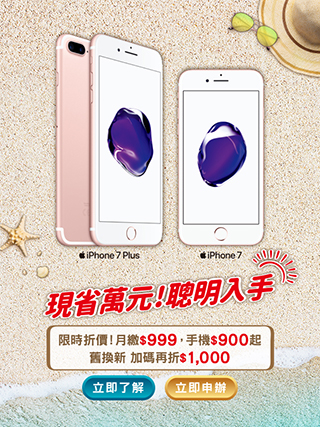
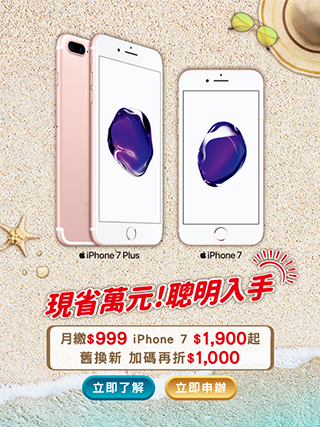
iPhone 20190419
更換banner
價格調整
移除banner
文案調整
日期調整
保護文字調整

Changed region(s): [[0.1875, 0.7611, 0.8125, 0.8525]]

diff --git a/demo/iPhone/new.html b/demo/iPhone/new.html
@@ -36,11 +36,13 @@
 		<map name="map_01">
 			<area target="_blank" alt="" title="" onclick="javascript:ga('send', 'event', 'iphoneXS', 'action', 'Buy_from_new');" href="https://iphone-eshop.cdn.hinet.net/Next.html?_ga=2.130746831.1781421612.1537203179-28648395.1509459132" coords="531,341,652,388" shape="rect">
 		</map> -->
+		<!-- 20190418
 		<a href="https://www.cht.com.tw/home/consumer/mobservice/device/phones#!_keyword%3AiPhone%207%26_orderby%3A%26_page%3A1"><img class="desktop-only" src="assets/images/banner_new.jpg" /></a>
 		<a href="https://www.cht.com.tw/home/consumer/mobservice/device/phones#!_keyword%3AiPhone%207%26_orderby%3A%26_page%3A1"><img style="width:100%" class="mobile-only" src="assets/images/banner_new_m.jpg" /></a>
+	-->
 		<!-- <h1 style="line-height:150%;font-size:180%;text-shadow:3px 3px #ddd;color:#ff0000">舊換新 iPhone XS Max / XR最高現省$28,000</h1> -->
-		<h1 style="color:#ff0000;font-size:1.35em;line-height:1.5em;">【超值優惠】<div class="mobile-only"><br></div>月繳$999，iPhone 7 <div class="mobile-only"><br></div>購機價$900，現省萬元，聰明入手！</h1>
-		<h1 style="color:#ff0000;font-size:1.35em;line-height:1.5em;">【限時折價】<div class="mobile-only"><br></div>指定機型限時折$2,000　<div class="mobile-only"><br></div>搭配舊換新購機加碼再折$1,000</h1>
+		<h1 style="color:#ff0000;font-size:1.35em;line-height:1.5em;">【超值優惠】<div class="mobile-only"><br></div>月繳$999，iPhone 7 <div class="mobile-only"><br></div>購機價$1,900起聰明入手！</h1>
+		<h1 style="color:#ff0000;font-size:1.35em;line-height:1.5em;">【限時折價】<div class="mobile-only"><br></div>指定機型最高限時折$2,000<div class="mobile-only"><br></div>搭配舊換新購機加碼再折$1,000</h1>
 		<h1 style="color:#ff0000;font-size:1.35em;line-height:1.5em;">【限時優惠】<div class="mobile-only"><br></div>買指定機型獨享<img src="assets/images/wordgym_logo.png" /><div class="mobile-only"><br></div>免費體驗1個月</h1>
 		<!-- <h1 style="color:#ff0000;font-size:1.5em;line-height:1.5em;"> 【行動VIP】 購機最高再折$5,000</h1> -->
 		<!-- <h1 style="color:#000;font-size:1.5em;line-height:1.5em;">指定銀行刷卡購機享24期0利率 滿額登錄再送刷卡金！
@@ -68,7 +70,7 @@
 			<table>
 				<tr>
 					<td>活動期間：</td>
-					<td>自108/04/25起至108/06/30</td>
+					<td>自108/05/01起至108/05/30</td>
 				</tr>
 				<tr>
 					<td>申辦地點：</td>
@@ -240,18 +242,15 @@
 					<td class="newer">32GB</td>
 					<td><span style="text-decoration:line-through;color:#000;">6,900</span><div class="e_pc"></div><br class="e_mobile">
 					  <span>5,900</span></td>
-					<td><span style="text-decoration:line-through;color:#000;">1,900</span><div class="e_pc"></div><br class="e_mobile">
-					  <span>900</span></td>
+					<td>1,900</td>
 					<td>0</td>
 				</tr>
 				<tr>
 					<td>128GB</td>
 					<td><span style="text-decoration:line-through;color:#000;">10,900</span><div class="e_pc"></div><br class="e_mobile">
 					  <span>9,900</span></td>
-					<td><span style="text-decoration:line-through;color:#000;">5,900</span><div class="e_pc"></div><br class="e_mobile">
-				    <span>4,900</span></td>
-					<td><span style="text-decoration:line-through;color:#000;">1,900</span><div class="e_pc"></div><br class="e_mobile">
-				    <span>900</span></td>
+					<td>5,900</td>
+					<td>1,900</td>
 				</tr>
 				<tr>
 					<td rowspan="2">iPhone 7 Plus
@@ -259,19 +258,16 @@
 					</td>
 					<td class="newer">32GB</td>
 					<td><span style="text-decoration:line-through;color:#000;">9,400</span><div class="e_pc"></div><br class="e_mobile">
-				    <span>8,400</span></td>
-					<td><span style="text-decoration:line-through;color:#000;">3,900</span><div class="e_pc"></div><br class="e_mobile">
-					  <span>2,900</span></td>
+				    <span>8,400</td>
+					<td>3,900</td>
 					<td>0</td>
 				</tr>
 				<tr>
 					<td>128GB</td>
 					<td><span style="text-decoration:line-through;color:#000;">13,400</span><div class="e_pc"></div><br class="e_mobile">
 				    <span>12,400</span></td>
-					<td><span style="text-decoration:line-through;color:#000;">7,900</span><div class="e_pc"></div><br class="e_mobile">
-				    <span>6,900</span></td>
-					<td><span style="text-decoration:line-through;color:#000;">1,900</span><div class="e_pc"></div><br class="e_mobile">
-					 <span> 900</span></td>
+					<td>7,900</td>
+					<td>1,900</td>
 				</tr>
 			</tbody>
 		</table>
@@ -437,38 +433,32 @@
 		<td class="newer">32GB</td>
 		<td><span style="text-decoration:line-through;color:#000;">7,900</span><div class="e_pc"></div><br class="e_mobile">
 	    <span>6,900</span></td>
-		<td><span style="text-decoration:line-through;color:#000;">3,900</span><div class="e_pc"></div><br class="e_mobile">
-		  <span>2,900</span></td>
+		<td>3,900</td>
 		<td>0</td>
 	</tr>
 	<tr>
 		<td>128GB</td>
 		<td><span style="text-decoration:line-through;color:#000;">11,900</span><div class="e_pc"></div><br class="e_mobile">
 		  <span>10,900</span></td>
-		<td><span style="text-decoration:line-through;color:#000;">7,900</span><div class="e_pc"></div><br class="e_mobile">
-	    <span>6,900</span></td>
-		<td><span style="text-decoration:line-through;color:#000;">3,900</span><div class="e_pc"></div><br class="e_mobile">
-	    <span>2,900</span></td>
+		<td>7,900</td>
+		<td>3,900</td>
 	</tr>
 	<tr>
 		<td rowspan="2">iPhone 7 Plus
 			<br><b>限時折價</b>
 		</td>
 		<td class="newer">32GB</td>
-		<td><span style="text-decoration:line-through;color:#000;">10,400<br>
+		<td><span style="text-decoration:line-through;color:#000;">10,400</span><div class="e_pc"></div><br class="e_mobile">
 		  <span>9,400</span></td>
-		<td><span style="text-decoration:line-through;color:#000;">5,900<br>
-	    <span>4,900</span></td>
+		<td>5,900</td>
 		<td>0</td>
 	</tr>
 	<tr>
 		<td>128GB</td>
 		<td><span style="text-decoration:line-through;color:#000;">14,400</span><div class="e_pc"></div><br class="e_mobile">
 		  <span>13,400</span></td>
-		<td><span style="text-decoration:line-through;color:#000;">9,900</span><div class="e_pc"></div><br class="e_mobile">
-	    <span>8,900</span></td>
-		<td><span style="text-decoration:line-through;color:#000;">3,900</span><div class="e_pc"></div><br class="e_mobile">
-	    <span>2,900</span></td>
+		<td>9,900</td>
+		<td>3,900</td>
 	</tr>
 
 	</tbody>
@@ -634,19 +624,15 @@
 					<td class="newer">32GB</td>
 					<td><span style="text-decoration:line-through;color:#000;">8,900</span><div class="e_pc"></div><br class="e_mobile">
 				    <span>7,900</span></td>
-					<td><span style="text-decoration:line-through;color:#000;">5,900</span><div class="e_pc"></div><br class="e_mobile">
-				    <span>4,900</span></td>
-					<td><span style="text-decoration:line-through;color:#000;">1,900</span><div class="e_pc"></div><br class="e_mobile">
-					  <span>900</span></td>
+					<td>5,900</td>
+					<td>1,900</td>
 				</tr>
 				<tr>
 					<td>128GB</td>
 					<td><span style="text-decoration:line-through;color:#000;">12,900</span><div class="e_pc"></div><br class="e_mobile">
 				    <span>11,900</span></td>
-					<td><span style="text-decoration:line-through;color:#000;">9,900</span><div class="e_pc"></div><br class="e_mobile">
-					  <span>8,900</span></td>
-					<td><span style="text-decoration:line-through;color:#000;">5,900</span><div class="e_pc"></div><br class="e_mobile">
-				    <span>4,900</span></td>
+					<td>9,900</td>
+					<td>5,900</td>
 				</tr>
 				<tr>
 					<td rowspan="2">iPhone 7 Plus
@@ -655,19 +641,15 @@
 					<td class="newer">32GB</td>
 					<td><span style="text-decoration:line-through;color:#000;">11,400</span><div class="e_pc"></div><br class="e_mobile">
 					  <span>10,400</span></td>
-					<td><span style="text-decoration:line-through;color:#000;">7,900</span><div class="e_pc"></div><br class="e_mobile">
-				    <span>6,900</span></td>
-					<td><span style="text-decoration:line-through;color:#000;">1,900</span><div class="e_pc"></div><br class="e_mobile">
-				    <span>900</span></td>
+					<td>7,900</td>
+					<td>1,900</td>
 				</tr>
 				<tr>
 					<td>128GB</td>
 					<td><span style="text-decoration:line-through;color:#000;">15,400</span><div class="e_pc"></div><br class="e_mobile">
 				    <span>14,400</span></td>
-					<td><span style="text-decoration:line-through;color:#000;">11,900</span><div class="e_pc"></div><br class="e_mobile">
-				    <span>10,900</span></td>
-					<td><span style="text-decoration:line-through;color:#000;">5,900</span><div class="e_pc"></div><br class="e_mobile">
-					  <span>4,900</span></td>
+					<td>11,900</td>
+					<td>5,900</td>
 				</tr>
 		</tbody>
 	</table>
@@ -680,7 +662,7 @@
 	  <h3><span class="h3-border">貼心小叮嚀</h3>
 		<ol>
 			<li>詳細方案優惠內容與限制請詳閱<a href="https://eshop.cht.com.tw/home/campaign/newcollection/index.html" target="_blank">新精選購機方案頁面</a>。</li>
-			<li>108/04/15起至108/06/30止，搭配舊機換新機並申辦大4G方案、新精選購機方案、青春無敵學生方案，購買iPhone XS Max / iPhone XS/ iPhone XR/ iPhone 7 / iPhone 7 Plus折價1,000元，若申辦大4G方案或新精選購機方案購買iPhone XS Max / iPhone XS/ iPhone XR，月繳999/1,199元購機折1,000元、月繳1,399元以上購機折2,000元，手機促銷至多折至0元止。舊機回收價格將依市場行情適時調整，舊機可折抵金額以門市現場實際判定及報價為準。舊機回收相關條件與內容請參考<a href="https://www.cht.com.tw/home/campaign/cht_recycle/index.html">https://www.cht.com.tw/home/campaign/cht_recycle/index.html</a></li>
+			<li>108/05/01起至108/05/30止，搭配舊機換新機並申辦大4G方案、新精選購機方案、青春無敵學生方案，購買iPhone XS Max / iPhone XS/ iPhone XR/ iPhone 7 / iPhone 7 Plus折價1,000元，若申辦大4G方案或新精選購機方案購買iPhone XS Max / iPhone XS/ iPhone XR，月繳999/1,199元購機折1,000元、月繳1,399元以上購機折2,000元，申辦新精選購機方案購買iPhone7/iPhone7+，月繳699元購機折1,000元，手機促銷至多折至0元止。舊機回收價格將依市場行情適時調整，舊機可折抵金額以門市現場實際判定及報價為準。舊機回收相關條件與內容請參考<a href="https://www.cht.com.tw/home/campaign/cht_recycle/index.html">https://www.cht.com.tw/home/campaign/cht_recycle/index.html</a></li>
 			<li>iPhone 7 限時折價優惠活動期間至108/05/30止，限搭配新精選購機方案，手機促銷至多折至0元止。</li>
 			<li>108/04/01起至108/06/30止，至中華電信搭配指定方案或單購機購買iPhone XS Max/iPhone XS/ iPhone XR即可享獨家World Gym健身俱樂部免費體驗1個月，本活動僅限非World Gym現有會籍且須年滿20歲以上之購機客戶使用，客戶需於108/07/31前憑購機發票或申請書(擇一) 至全台World Gym申請(不適用於FITZONE、預售俱樂部)。本免費體驗一個月活動係由World Gym公司主辦，如有體驗相關問題請洽World Gym 24小時服務專線：04-3600-9898。</li>
 			<li>iPhone銷售門市詳細資訊請至中華電信官網服務據點<a href="http://www.cht.com.tw/portal/Location" target="_blank">查詢</a>。上述機型/顏色/容量供貨情況依各銷售門市現場為準，數量有限售完為止，詳情請洽門市人員。</li>
